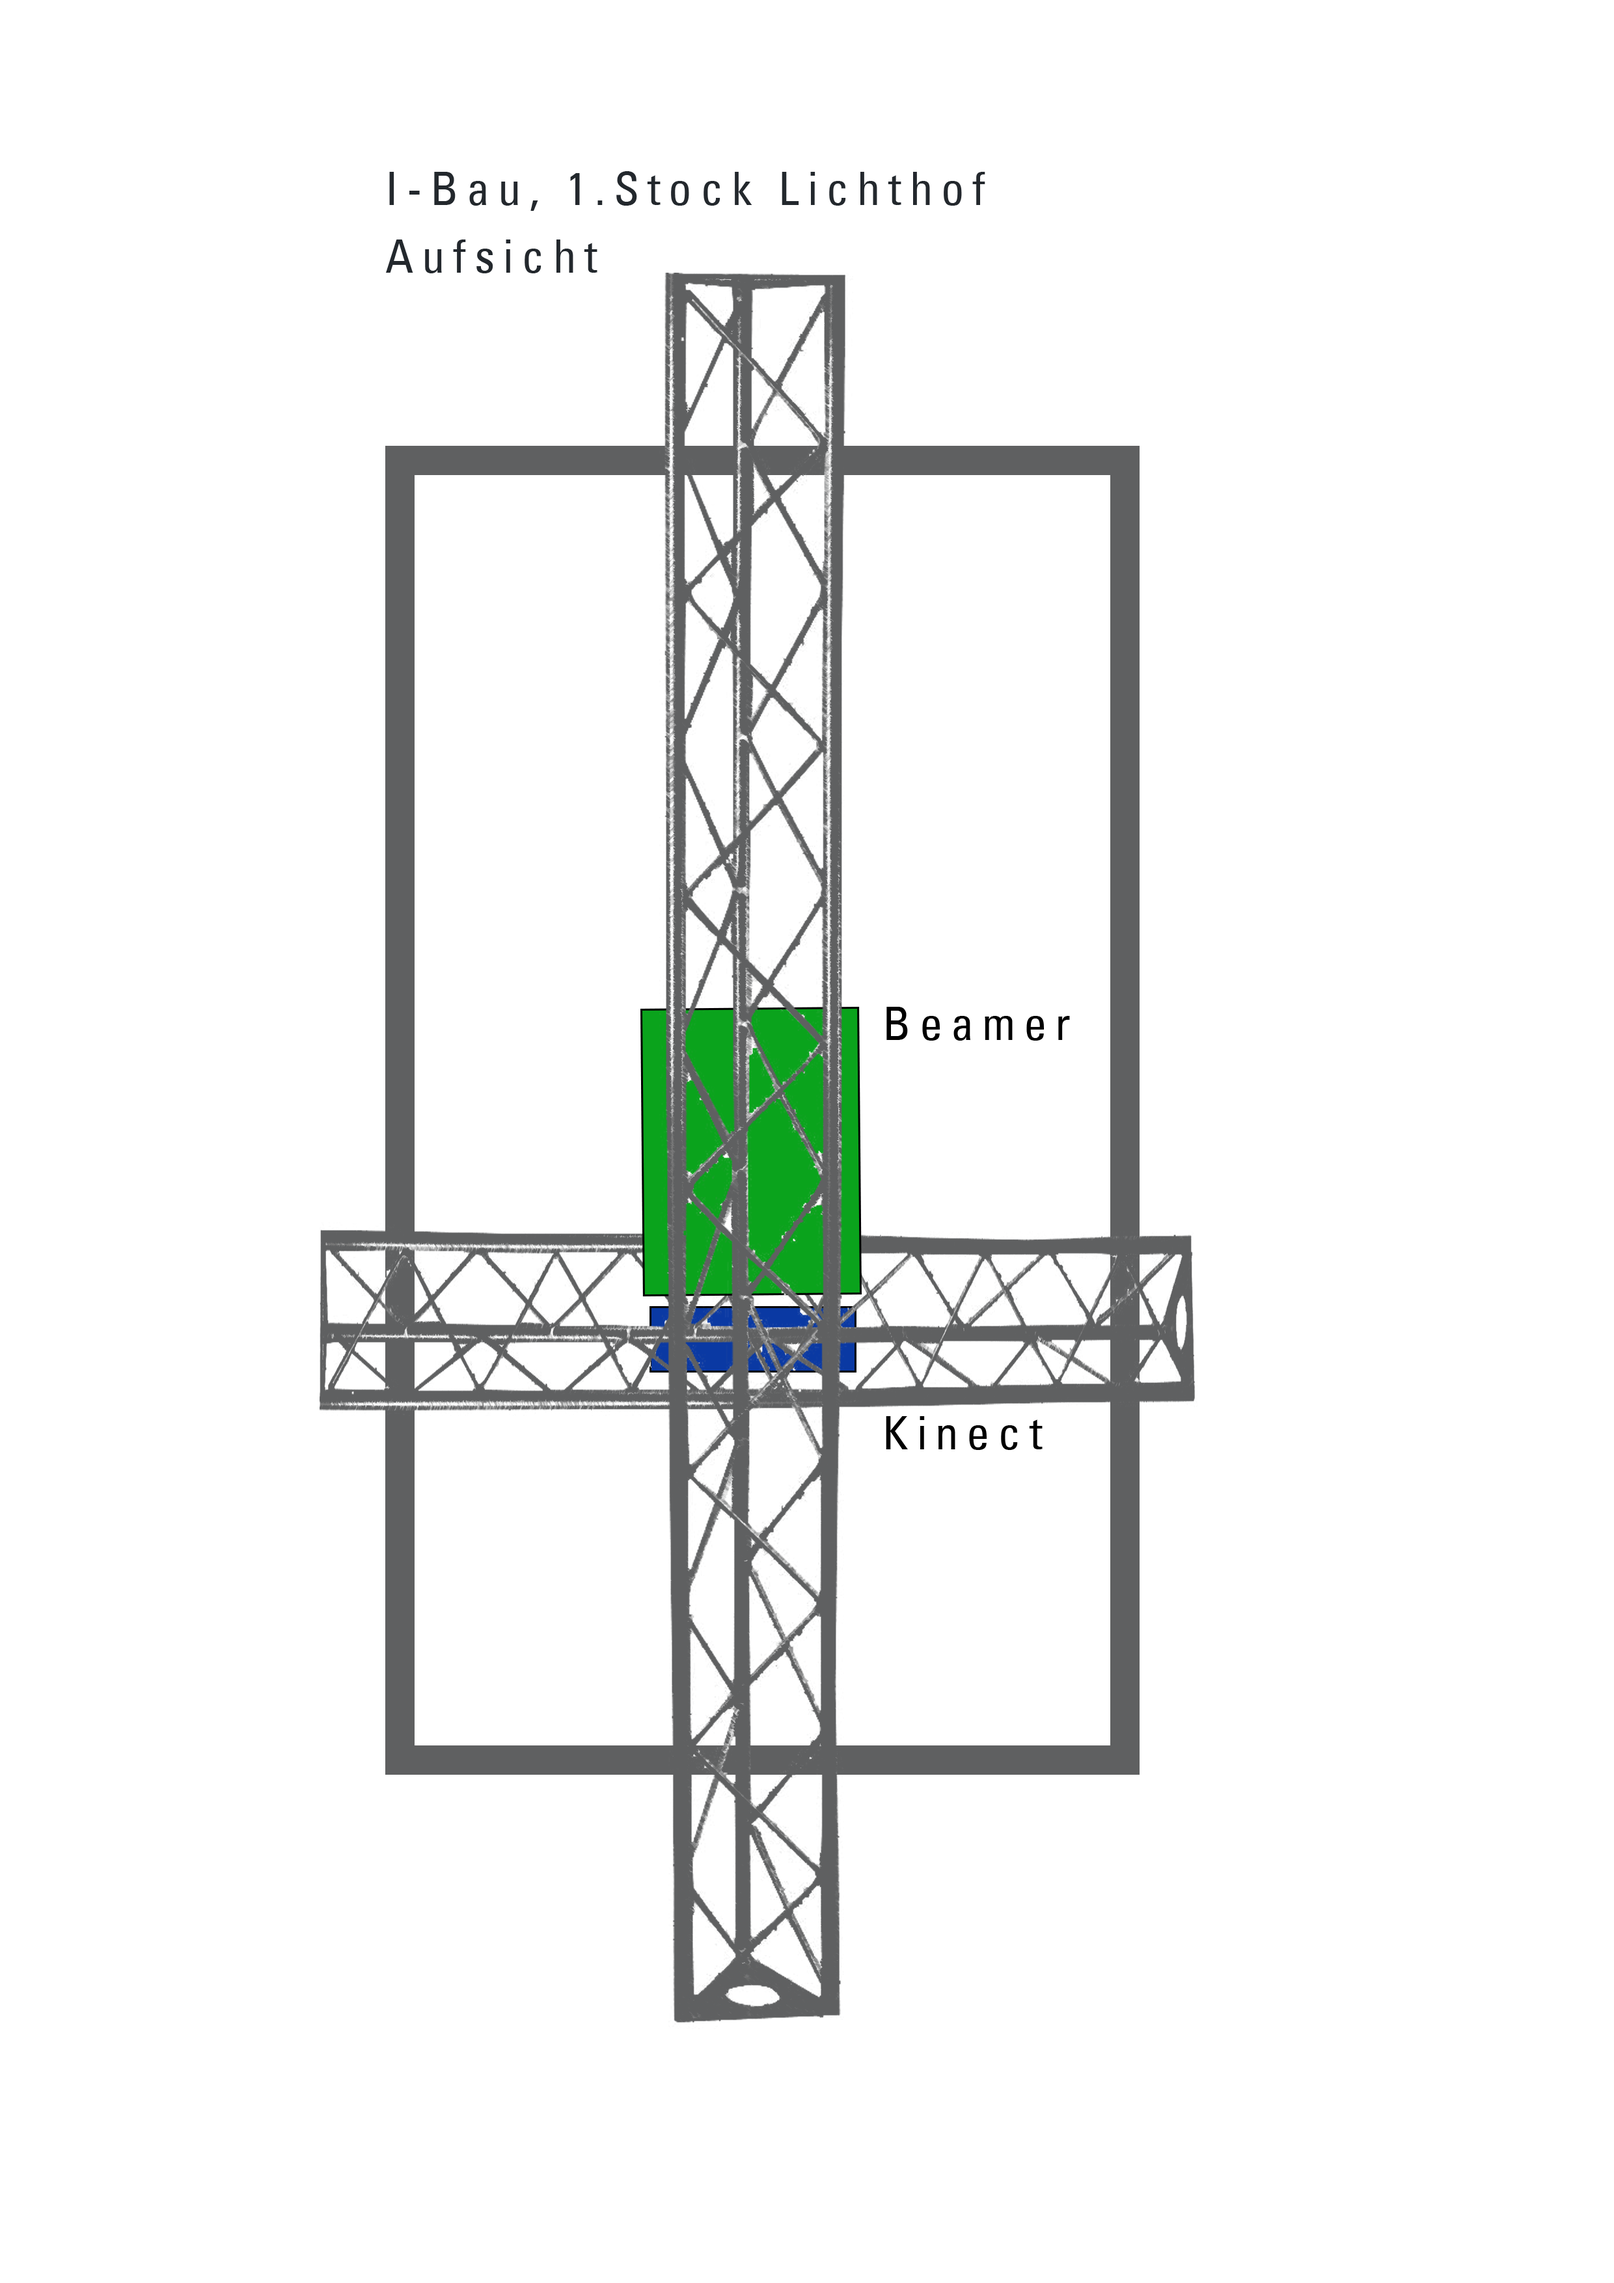
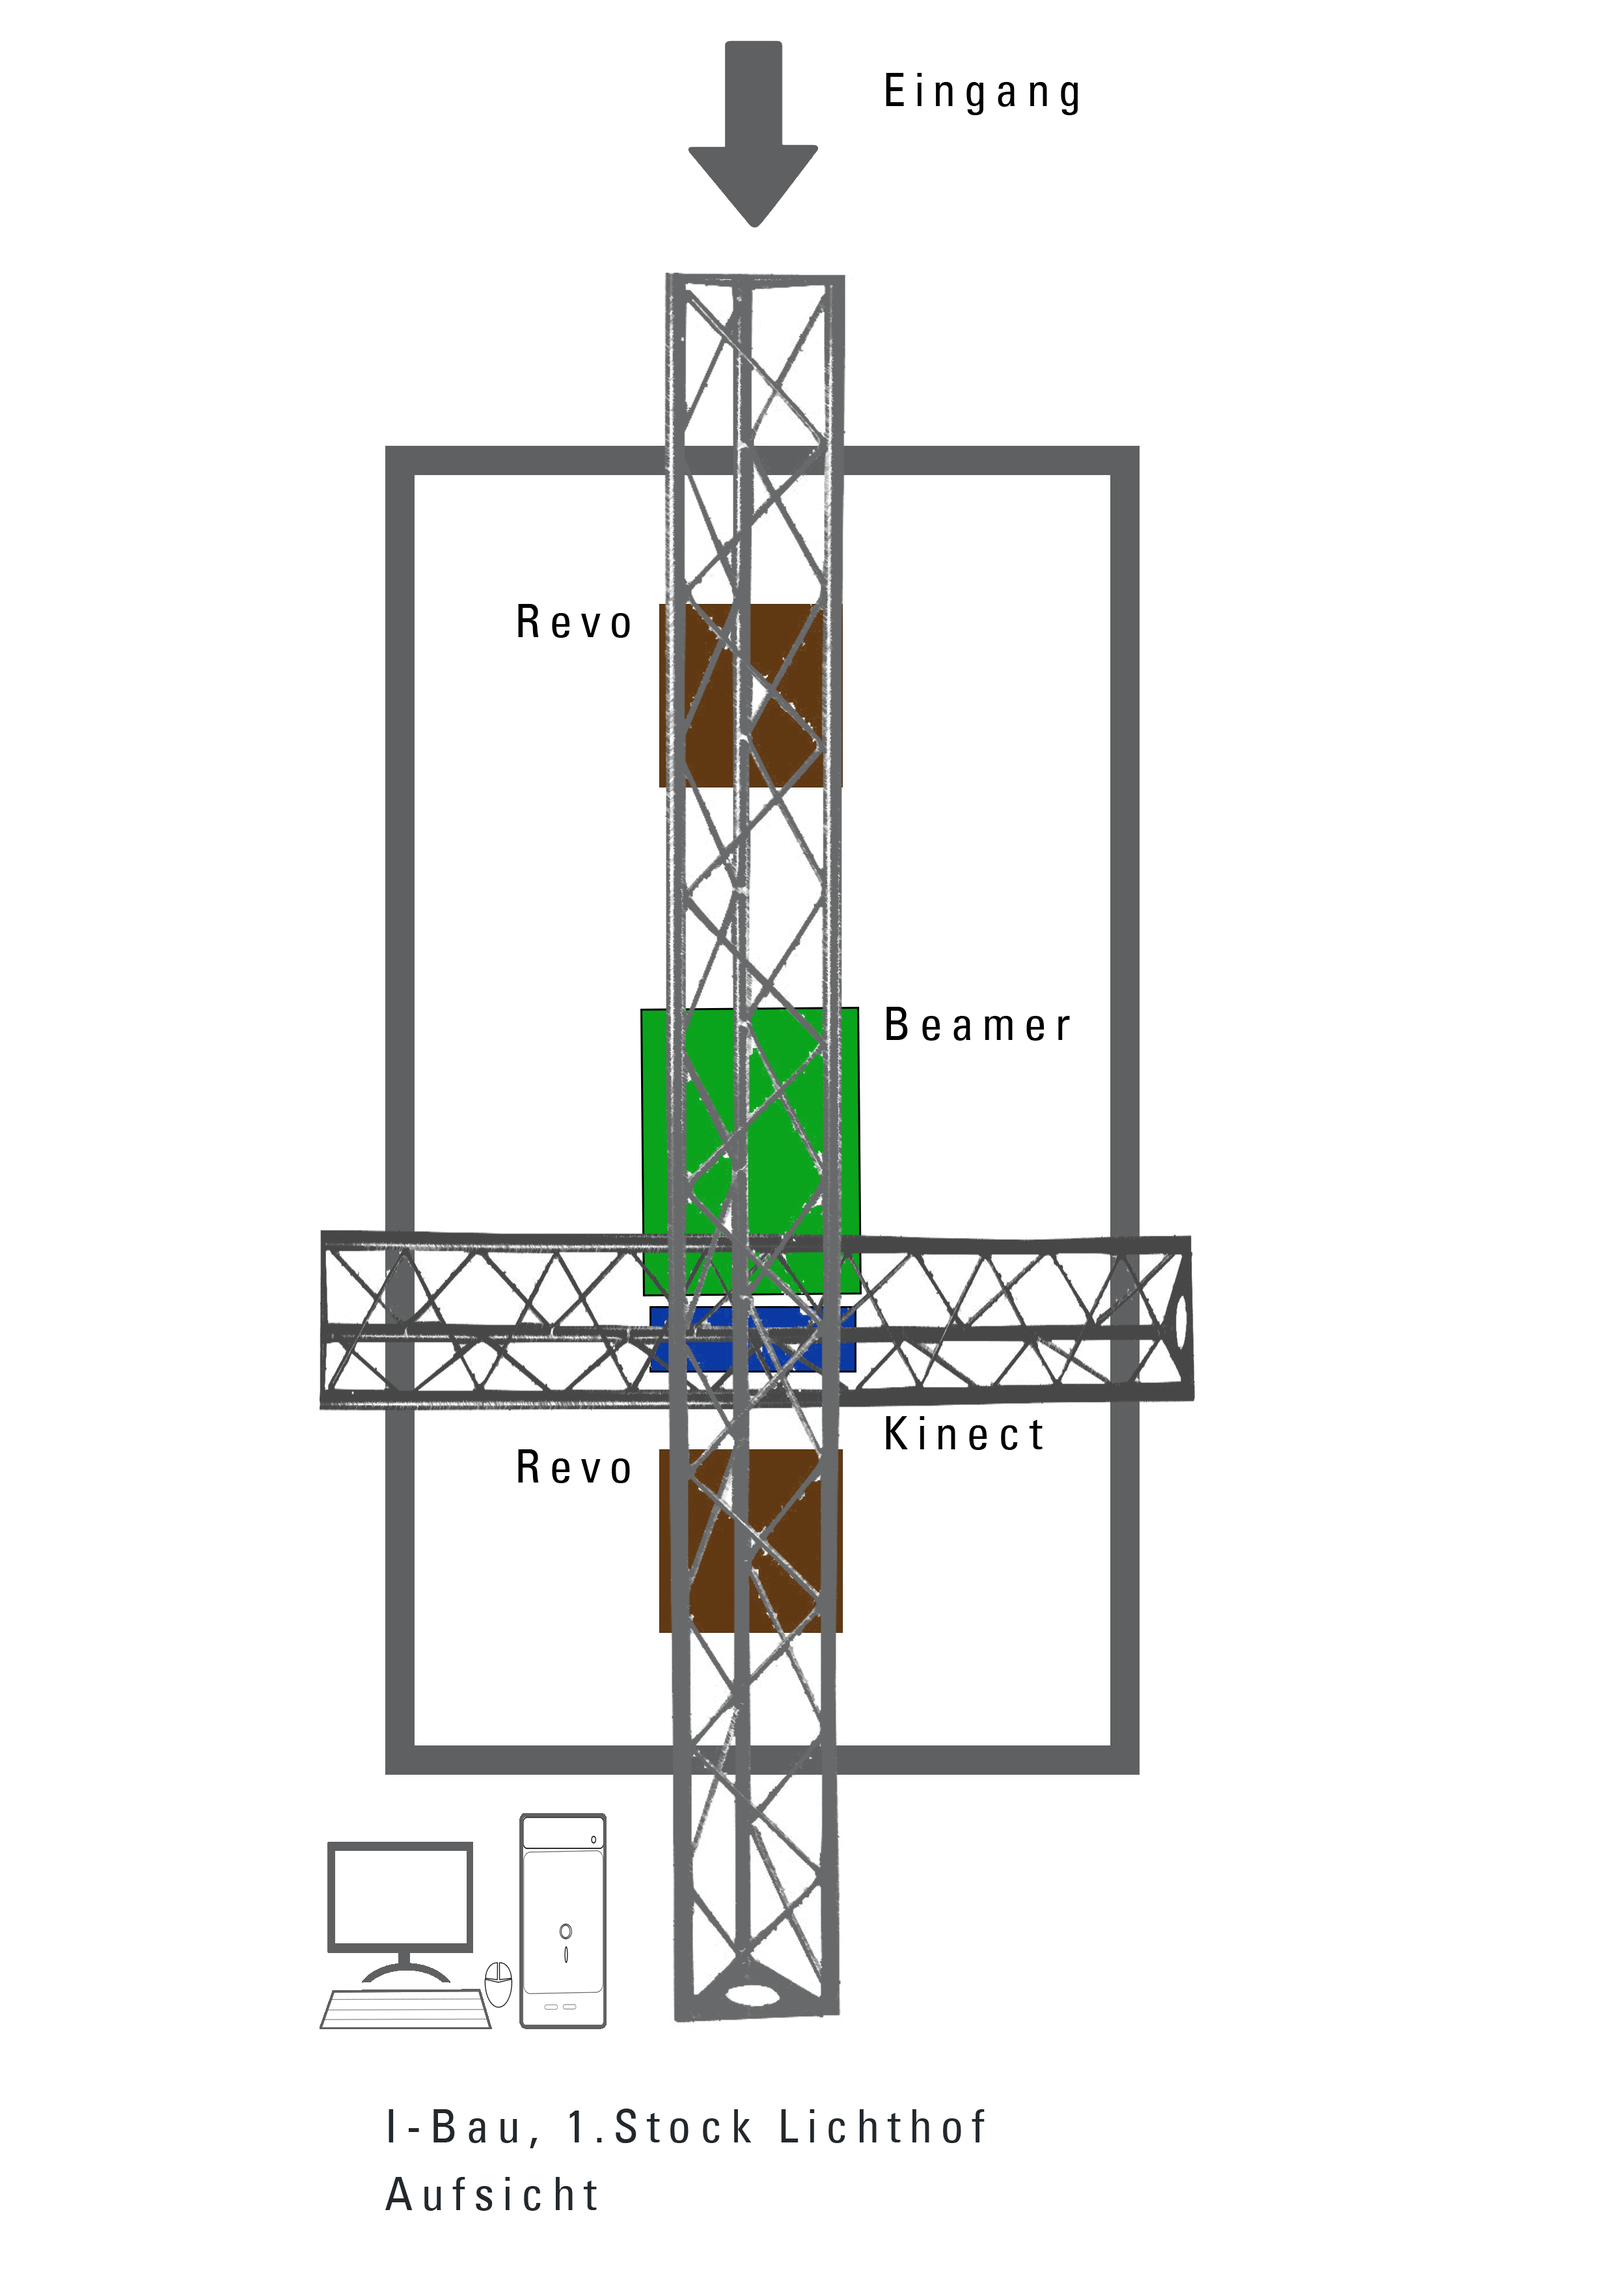
neue Modell-Grafik

diff --git a/aufbau.tex b/aufbau.tex
@@ -2,15 +2,14 @@
 Da die Installation aus mehreren Hardware- und Software-Komponenten besteht, soll hier eine kurze modellhafte Übersicht über den endgültigen Aufbau des Prototypen skizziert werden. Die darauf folgenden Kapitel gehen anschließend näher auf die einzelnen Komponenten ein. Der Prototyp der Installation wurde am 20.01.2015 im Rahmen des \textit{Tag der Medien} der Fakultät Digitale Medien aufgebaut und getestet. Auf zwei Ebenen wurden Gerätschaften installiert, damit die Besucher schon beim Eintreten mit akustischen und visuellen Reizen konfrontiert und zum Mitmachen bewegt wurden. Die zwei Grafiken zeigen das Erdgeschoss und den ersten Stock des Gebäudes.
 \begin{figure}[h]
 	\centering
-		\includegraphics[width=0.90\textwidth]{images/ModelFirstFloor.png}
+		\includegraphics[width=1.0\textwidth]{images/ModelFirstFloor.png}
 	\caption{Aufbau der Installation im 1.Stock des I-Baus}
 	\label{fig:ModelFF}
 \end{figure}
 
-Im ersten Stockwerk hängt über dem Lichthof eine zwei Meter lange Traverse, getragen von zwei Stativen, in deren Mitte ein Epson EB-4950WU Beamer (in der Abbildung \autoref{fig:ModelFF} grün markiert) an einer speziell von der Werkstatt der Hochschule angefertigten Metallhalterung in das Erdgeschoss des Gebäudes strahlt. Der Beamer, eine Leihgabe des Kreismedienzentrums Villingen, kann mit seiner Farbhelligkeit von bis zu 4.500 Lumen und eine Auflösung von 1920 x 1200 Pixeln den dunklen Boden des I-Baus mühelos ausleuchten und ist zudem für längere Betriebszeiten ausgerichtet. Durch die erhöhte Stellung der Traversenstative hängt der Beamer sechs Meter über dem Erdgeschossboden. \\
-Auf der Brüstung des Lichthofes liegt im 90° Winkel dazu eine ein Meter lange Traverse. Sie wird nicht ganz mittig zu der längeren Traverse ausgerichtet, damit die daran befestigte Microsoft Kinect (in der Abbildung in blau markiert) nicht das Bild des Beamers stört. Durch die direkte Anbringung auf dem Geländer des Lichthofes, hängt die Kinect zudem auf 4,5 Meter Höhe und kann so bequem die Bewegungen der im Erdgeschoss befindlichen Personen aufnehmen. 
-
-
-PC --> software
+Im ersten Stockwerk hängt über dem Lichthof eine zwei Meter lange Traverse, getragen von zwei Stativen, in deren Mitte ein Epson EB-4950WU Beamer (in der Abbildung \autoref{fig:ModelFF} grün markiert) an einer speziell von der Werkstatt der Hochschule angefertigten Metallhalterung in das Erdgeschoss des Gebäudes strahlt. Der Beamer, eine Leihgabe des Kreismedienzentrums Villingen, kann mit seiner Farbhelligkeit von bis zu 4.500 Lumen und eine Auflösung von 1920 x 1200 Pixeln den dunklen Boden des I-Baus mühelos ausleuchten und ist zudem für längere Betriebszeiten ausgerichtet. Durch die erhöhte Stellung der Traversenstative hängt der Beamer sechs Meter über dem Erdgeschossboden.\\
+Auf der Brüstung des Lichthofes liegt im 90° Winkel dazu eine ein Meter lange Traverse. Sie wird nicht ganz mittig zu der längeren Traverse ausgerichtet, damit die mit Spannfix daran befestigte Microsoft Kinect v2 (in der Abbildung in blau markiert) nicht das Bild des Beamers stört und wird durch Holzhalterungen und Doughty-Clamps fixiert. Durch die direkte Anbringung auf dem Geländer des Lichthofes, hängt die Kinect zudem auf 4,5 Meter Höhe und kann so bequem die Bewegungen der im Erdgeschoss befindlichen Personen aufnehmen.\\
+Zudem sind zwei Scheinwerfer (so genannte \textit{Revos}, in Abbildung \autoref{fig:ModelFF} braun markiert ) an der längeren Traverse links und rechts vom Beamer angebracht und versehen den Boden mit zusätzlichen Lichteffekten, indem sie auf den Musiktakt reagieren.\\
+Die Geräte sind per HDMI-Kabel an einen PC angeschlossen, auf welchem das in Unity geschriebene Kontrollprogramm läuft. 
 
 

diff --git a/gui.tex b/gui.tex
@@ -1,6 +1,6 @@
 \subsection{Grafische Oberfläche}
 
-Teil der Grafischen Oberfläche ist dass Spielfeld (\autoref{fig:gui-tiles}), mit dem die Nutzer wie im Konzept beschrieben, interagieren.
+Teil der Grafischen Oberfläche ist das Spielfeld (\autoref{fig:gui-tiles}), mit dem die Nutzer wie im Konzept beschrieben, interagieren.
 
 \begin{figure}[htbp] 
   \centering
